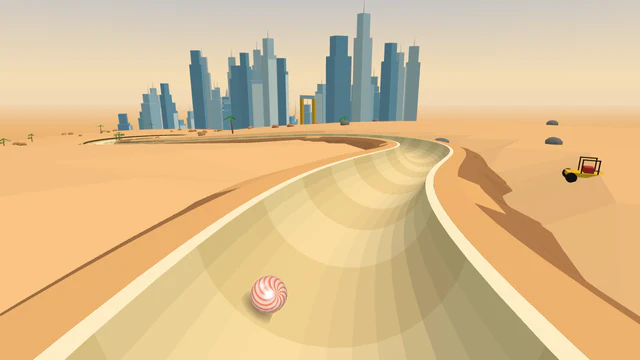
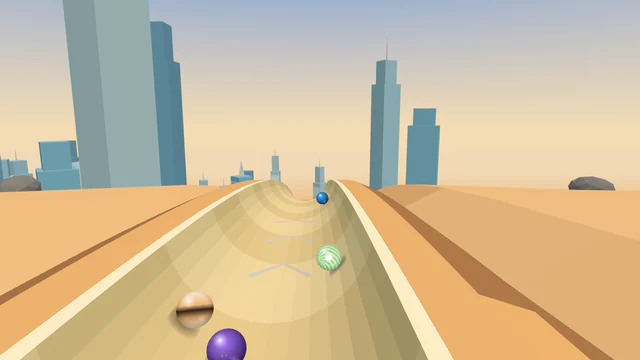
Dubai Twister: its own layout and opening; its records start again
Until now physically the same track as Park City Run. A sand-trap start
through the dunes past the camels and rally flags (the field let go in
waves), up a red dune and down its face, a sweep over the dunes, the hairpin
(no falcon swooping: knocked marbles fell too far behind), S-bends through
the skyline, the Twister round the twisting tower (the big feature), the drop
past the Burj Al Arab and along the Palm. Full report 50/50; Wild 39. Data
updates 2027-07-21. Off the known failures.

Claude-Session: https://claude.ai/code/session_011vSSkqNPL9kncfzrwF15wS

diff --git a/src/tracks/dubai-twister.js b/src/tracks/dubai-twister.js
@@ -4,8 +4,8 @@
 // Moses's design ("New Track Designs", 4), built with the track kit. The surface looks
 // like sand in the desert and polished stone in the city, and races as ice throughout.
 const {
-  track, plunge, straight, sBends, sweep, spiral, hairpin, splitter, runIn,
-  pileUp, swipe, parked, slalom, boost, brake,
+  track, opening, plunge, straight, sBends, sweep, spiral, hairpin, runIn,
+  climb, parked, slalom, brake,
 } = require('../trackKit');
 
 module.exports = track({
@@ -19,8 +19,9 @@ module.exports = track({
   variants: ['sunset'],
   signature: 'The Twister',
   tvCameras: [
-    { section: 'The Twister', at: 0.8, side: 'left', distance: 6, height: 12 },
-    { section: 'Oasis splitter', at: 0.8, side: 'right', distance: 6, height: 5 },
+    // (Near the foot of the tower, looking back up the spiral at the field winding down it.)
+    { section: 'The Twister', at: 0.85, side: 'left', distance: 6, height: 12 },
+    { section: 'Skyline S-bends', at: 0.5, side: 'right', distance: 6, height: 6 },
   ],
   billboardFrame: 'led',
   // The gate on the crest of a tall red dune beside a Bedouin tent and resting camels; the
@@ -28,36 +29,46 @@ module.exports = track({
   start: { landmark: 'bedouin-camp', scenery: ['bare'], gate: 'barrier', shots: { countdown: 'front', launch: 'overhead' } },
   finish: { landmark: 'burj-khalifa', scenery: ['skyscrapers'] },
   designChanges: [
-    'Desert rally marker flags down the dune plunge after the kneeling camels, glanced off like slalom gates: with camels alone the strongest marbles win too often and the field reaches the splitter sorted by strength.',
-    'The dune buggy is parked on the sand beside the S-bends, not on the track: a parked object on a bend trapped the slowest marble against it for up to 8 s (the last one home at 89 s), so the recipe now keeps parked objects to straights.',
-    'A 50 m straight, "Run to the falcon", before the hairpin: the recipe needs a braking zone before the one sharp bend; its first 15 m are a drift of sand blown across the road (a braking stretch), which bunches the field so it overtakes enough.',
+    'Its own layout and opening (Moses, 15 Nov 2026: World Tour re-layouts): through the dunes (the sand-trap start, the field let go in waves) past the kneeling camels and rally flags, up a red dune and down its face, a sweep over the dunes, the hairpin, S-bends through the skyline, the Twister (the big feature: the longest, smoothest spiral of all the tracks, round a twisting skyscraper), the drop past the Burj Al Arab and the Palm.',
+    'The dune buggy is parked on the sand beside the sweep, not on the track: a parked object on a bend traps marbles, so the recipe keeps parked objects to straights.',
+    'No falcon swooping at the hairpin since 15 Nov 2026: knocked marbles fell far behind (the gap from first to last went over the report\'s limit).',
+    'A straight, "Run to the falcon", before the hairpin: the recipe needs a braking zone before the one sharp bend; its first metres are a drift of sand blown across the road.',
   ],
+  // (The sand-trap start: down the dune through deep sand, past the kneeling camels and the rally flags; let go in
+  // jittered waves, a new order every race.)
+  opening: opening('sand-trap', {
+    costumes: { block: 'camel', slalom: 'rally-flag' },
+    names: { plunge: 'Through the dunes' },
+    waves: { groups: 5, gap: 0.12, jitter: 0.1 },
+  }),
   sections: [
+    { name: 'Up the red dune', shape: climb(8, { grade: -0.03, after: 0.3 }), scenery: ['bare'] },
+    { name: 'Down the dune face', shape: plunge(45, { grade: 0.4, from: 0.3 }), scenery: ['bare'], billboards: 1 },
     {
-      name: 'Dune plunge', shape: plunge(80, { grade: 0.6 }),
-      obstacles: [pileUp({ costume: 'camel', at: 0.42 }), slalom({ costume: 'rally-flag', from: 0.55, to: 0.97, count: 6, loss: 0.3 })], scenery: ['bare'],
-    },
-    {
-      name: 'Dune S-bends', shape: sBends({ first: 'left', radius: 75, degrees: 80, grade: 0.13 }),
-      landmarks: [{ name: 'dune-buggy', at: 0.5, side: 'left', distance: 6 }], scenery: ['bare'], billboards: 1,
-    },
-    {
-      name: 'Oasis splitter', shape: splitter({ side: 'left', balance: { tipOffset: -0.8, left: { drag: 1.32, scrub: 1.32 }, right: { drag: 0.42, scrub: 0.72 } } }),
-      around: 'oasis',
-    },
-    {
-      name: 'Skyline sweep', shape: sweep({ side: 'right', radius: 80, degrees: 160, grade: 0.07 }), surface: 'stone', features: [boost({ at: 0.08 })], billboards: 2,
-      landmarks: [{ name: 'museum-of-the-future', at: 0.3, side: 'left', distance: 20 }, { name: 'dubai-frame', at: 0.75, side: 'left', distance: 24 }], scenery: ['skyscrapers'],
+      name: 'Dune sweep', shape: sweep({ side: 'right', radius: 80, degrees: 130, grade: 0.12 }),
+      landmarks: [{ name: 'dune-buggy', at: 0.5, side: 'left', distance: 6 }], scenery: ['bare'],
     },
     // (Not in the design: the recipe's braking zone needs a straight before the one sharp bend.)
-    { name: 'Run to the falcon', shape: straight(50, { grade: 0.13 }), surface: 'stone', features: [brake({ at: 0.25, length: 15 })], billboards: 1, scenery: ['skyscrapers'] },
-    { name: 'Falcon hairpin', shape: hairpin({ side: 'left' }), surface: 'stone', obstacles: [swipe({ costume: 'falcon', side: 'high' })] },
-    // The longest, smoothest spiral of all the tracks, round a twisting skyscraper.
-    { name: 'The Twister', shape: spiral({ side: 'right', radius: 50, turns: 1.2, grade: 0.18 }), surface: 'stone', around: 'twisted-tower', scenery: ['skyscrapers'] },
     {
-      name: 'Burj Al Arab plunge', shape: straight(90, { grade: 0.2 }), surface: 'stone',
-      obstacles: [parked({ costume: 'sports-car', at: 0.4, side: 'right', length: 9 })],
-      landmarks: [{ name: 'burj-al-arab', at: 0.6, side: 'left', distance: 40 }],
+      name: 'Run to the falcon', shape: straight(60, { grade: 0.13 }), surface: 'stone', billboards: 1, scenery: ['skyscrapers'],
+      obstacles: [slalom({ costume: 'rally-flag', from: 0.2, to: 0.6, count: 3, loss: 0.3 })],
+    },
+    { name: 'Falcon hairpin', shape: hairpin({ side: 'right' }), surface: 'stone' },
+    {
+      name: 'Skyline S-bends', shape: sBends({ first: 'right', radius: 70, degrees: 80, grade: 0.14 }), surface: 'stone', billboards: 2,
+      landmarks: [{ name: 'museum-of-the-future', at: 0.3, side: 'left', distance: 20 }, { name: 'dubai-frame', at: 0.75, side: 'right', distance: 24 }], scenery: ['skyscrapers'],
+    },
+    { name: 'To the tower', shape: straight(35, { grade: 0.12 }), surface: 'stone', scenery: ['skyscrapers'] },
+    // The longest, smoothest spiral of all the tracks, round a twisting skyscraper: the track's big feature.
+    { name: 'The Twister', shape: spiral({ side: 'left', radius: 50, turns: 1.2, grade: 0.16 }), surface: 'stone', around: 'twisted-tower', scenery: ['skyscrapers'] },
+    {
+      name: 'Burj Al Arab plunge', shape: plunge(50, { grade: 0.3, from: 0.16 }), surface: 'stone',
+      landmarks: [{ name: 'burj-al-arab', at: 0.6, side: 'right', distance: 40 }],
+    },
+    {
+      name: 'Along the Palm', shape: straight(80, { grade: 0.13 }), surface: 'stone', billboards: 1,
+      features: [brake({ at: 0.05, length: 12, drag: 0.02 })],
+      obstacles: [parked({ costume: 'sports-car', at: 0.3, side: 'right', length: 9 }), slalom({ costume: 'rally-flag', from: 0.55, to: 0.9, count: 3, loss: 0.35 })],
     },
     { name: 'Finish', shape: runIn(), surface: 'stone', landmarks: [{ name: 'palm-boardwalk', at: 0.5, side: 'left', distance: 8 }] },
   ],

diff --git a/test/trackKit.test.js b/test/trackKit.test.js
@@ -56,7 +56,7 @@ test('every kit track opens with Bobsleigh Run\'s starting ramp, gate, channel a
     // (The staggered drop and the varied starts let the field go in waves: their funnel has that one setting more.
     // Any other opening only where its track asks for them, listed here: Nevada Drag Strip's crest start.)
     const { waves, ...rest } = funnel;
-    if (waves) assert.ok(['staggered-drop', 'clean-drop', 'peg-drop', 'pipe-drop', 'rolling-start', 'chicane-start', 'rumble-start'].includes(t.physics.kit.opening) || ['nevada-drag-strip', 'hudson-highlands-run', 'iguazu-devils-throat', 'chao-phraya-dawn-spiral', 'blyde-potholes-spiral', 'kings-canyon-lost-city', 'huashan-plank-walk', 'etna-valle-del-bove', 'tianmen-heavens-gate', 'sunken-ruins', 'are-run', 'greenland-expedition', 'crystal-grotto', 'moon-base'].includes(t.slug), `${t.slug}: waves at the gate`);
+    if (waves) assert.ok(['staggered-drop', 'clean-drop', 'peg-drop', 'pipe-drop', 'rolling-start', 'chicane-start', 'rumble-start'].includes(t.physics.kit.opening) || ['nevada-drag-strip', 'hudson-highlands-run', 'iguazu-devils-throat', 'chao-phraya-dawn-spiral', 'blyde-potholes-spiral', 'kings-canyon-lost-city', 'huashan-plank-walk', 'etna-valle-del-bove', 'tianmen-heavens-gate', 'sunken-ruins', 'are-run', 'greenland-expedition', 'dubai-twister', 'crystal-grotto', 'moon-base'].includes(t.slug), `${t.slug}: waves at the gate`);
     if (!['funnel-drop', 'staggered-drop'].includes(t.physics.kit.opening)) assert.deepEqual(rest, tmFunnel);
     assert.deepEqual(t.physics.gate, bob.physics.gate);
     assert.equal(t.physics.collisions, true);

diff --git a/test/samenessAllTracks.test.js b/test/samenessAllTracks.test.js
@@ -38,7 +38,6 @@ const KNOWN = {
   'baqueira-beret-run': ['opening', 'opening-kind', 'layout'],
 
   'paris-eiffel-tower-run': ['opening', 'opening-kind', 'layout'],
-  'dubai-twister': ['opening', 'opening-kind', 'layout'],
   'amazon-water-run': ['layout'],
   'rio-jungle-rumble': ['opening', 'opening-kind', 'layout'],
   'china-wall-twister': ['opening', 'opening-kind', 'layout'],

diff --git a/docs/06-decisions.md b/docs/06-decisions.md
@@ -4,7 +4,7 @@
 
 | Date | Decision | Why |
 |---|---|---|
-| 2026-11-15 | **World Tour re-layouts** (Moses, 21:20: every World Tour pack track still on the sameness test's known failures gets its own layout and opening, with a signature feature from the real place, as the Grand Prix re-layouts; then seven new World Tour tracks to fill the pack to 20). Each keeps its name, slug and look; a `--relayout` data update starts its records again (`tracks.records_since`), and a `<slug>-to-world-tour` update sets its new wildness (the pack script now takes a kit track with no series marker as World Tour, as the server does). Done: **Åre Run** (Wild 43, was Easy 29: a rumble start down the summit moguls, the hairpin, a sweep under the gondola, down the World Championship slope as the big feature, the funicular spiral; `2027-07-18-…`), **Greenland Expedition** (Wild 44: a snowdrift start, the sand-trap opening, past the sled dogs, the ice cave as the big feature, a long steep drop inside the glacier; `2027-07-19-…`), **Park City Run** (Wild 37: a rolling start from the lift station, down the old silver mine's shaft as the big feature; `2027-07-20-…`). | The old World Tour tracks were built from one design and raced alike (several pairs identical, nine with the same opening). |
+| 2026-11-15 | **World Tour re-layouts** (Moses, 21:20: every World Tour pack track still on the sameness test's known failures gets its own layout and opening, with a signature feature from the real place, as the Grand Prix re-layouts; then seven new World Tour tracks to fill the pack to 20). Each keeps its name, slug and look; a `--relayout` data update starts its records again (`tracks.records_since`), and a `<slug>-to-world-tour` update sets its new wildness (the pack script now takes a kit track with no series marker as World Tour, as the server does). Done: **Åre Run** (Wild 43, was Easy 29: a rumble start down the summit moguls, the hairpin, a sweep under the gondola, down the World Championship slope as the big feature, the funicular spiral; `2027-07-18-…`), **Greenland Expedition** (Wild 44: a snowdrift start, the sand-trap opening, past the sled dogs, the ice cave as the big feature, a long steep drop inside the glacier; `2027-07-19-…`), **Park City Run** (Wild 37: a rolling start from the lift station, down the old silver mine's shaft as the big feature; `2027-07-20-…`), **Dubai Twister** (Wild 39: a sand-trap start through the dunes, up a red dune and down its face, the Twister spiral round the twisting tower as the big feature; the falcon no longer swoops at the hairpin, as knocked marbles fell too far behind; `2027-07-21-…`). | The old World Tour tracks were built from one design and raced alike (several pairs identical, nine with the same opening). |
 | 2026-11-15 | **Seven more Blocks 1 tracks: the Blocks 1 pack filled to 20** (Moses, 13:38: the game-world look, our own voxel worlds with retro-game touches, never another game's names, creatures, textures or falling pieces; same rules as the Canyons and Peaks; 2 Easy, 3 Wild, 2 Extreme). Built, each pushed switched off in the Blocks 1 pack, not free: **Mushroom Grove** (Easy 24: a drop off a giant mushroom's cap), **Sunken Ruins** (Easy 17: a banked turn round a sunken dome), **Clockwork Works** (Wild 39: a splitter round a giant gear), **Crystal Grotto** (Wild 44: a spiral round a crystal spire), **Jungle Ruins** (Wild 45: a waterfall drop through falling water), **Moon Base** (Extreme 60: a 66 m drop over a crater's rim), **Neon Grid** (Extreme 57: a loop over the glowing grid, 69 overtakes); data updates `2027-07-11-…` to `2027-07-17-…`; seven new worlds, `kitLandmarksBlockWorlds.js` and three Blocks 1 start types (`portal-gate`, `block-pyramid`, `gear-tower`). On phones a Block Series cube pillar is now at most 8 cubes (each taller), as Crystal Grotto's tall pillars went over the triangle budget; looks only. Status: project doc `claude/blocks-1-seven-more-status.md`. Waiting for Moses's deploy (with the Canyons and Peaks), then his look at each preview before switching on. | With them the Blocks 1 pack has 20 besides the free Spawn Point and can go on sale. |
 | 2026-11-15 | **Six more Peaks tracks: the Peaks pack filled to 20** (Moses, 09:45: same rules as the six Canyons, and 65+ overtakes on a loop track; 2 Easy, 2 Wild, 2 Extreme; six famous mountains not yet in the series, each with two signature features, unlike the World Tour's alpine resorts). Built, each pushed switched off in the Peaks pack, not free: **Half Dome Granite Slabs** (Easy 31: a drop down the granite slabs below the face), **Huayna Picchu Terraces** (Extreme 48: a splitter round a terraced hill), **Huashan Plank Walk** (Easy 20: a dramatic banked turn round the plank walk's cliff), **Eiger North Face** (Wild 43: a banked spiral round a window pillar), **Etna Valle del Bove** (Extreme 50: a drop into the Valle del Bove), **Tianmen Heaven's Gate** (Wild 41: a loop under the great arch, 69 overtakes); data updates `2027-07-05-…` to `2027-07-10-…`; six palettes and `kitLandmarksPeak2.js`; the pack script knows Peaks. Huayna came out Extreme and Huashan Easy, Etna Extreme and Tianmen Wild (planned otherwise); the mix stays 2/2/2. Status: project doc `claude/peaks-six-more-status.md`. Waiting for Moses's deploy (with the Canyons), then his look at each preview before switching on. | With them the Peaks pack has 20 besides the free Everest Icefall Run and can go on sale. |
 | 2026-11-15 | **A coaster track can have a loop** (Kings Canyon Lost City, the first): over the loop's span the coaster's rails, spine, ties and towers stop (3 m either side), as the loop draws its own track and steel along its own path; before, they ran along the ground under it, 64 m with no rim under the rails, and blocked the follow camera. The rails check (`railGaps`) now finds each rail line's first point along the whole track (by height too), so lines that start after a loop are checked where they are. Looks only: race results unchanged. | A loop in a canyon is the Canyons series' loop; the coaster kit had never met one. |

diff --git a/docs/README.md b/docs/README.md
@@ -8,7 +8,7 @@
 
 **Where it stands:**
 - **Website:** live at marblespins.com (Vercel builds every push to `Main`; production is at `548aeb8`, 15 Nov). Soft start (social media, a daily set of videos, 10–20 invited test pilots) since the week of 26 Oct. **Official launch 1 Dec 2026**, with the Holiday Season, the season pass and the apps. GA4 on since 31 Oct (after cookie consent); the Meta Pixel off.
-- **Tracks: 152 live in ten series** (World Tour, Grand Prix, Coasters, Canyons, Blocks, Track and Field, Rivers, Peaks, Pinball, Arcade), since the 9 motorsport Grand Prix tracks were switched on on 13 Nov; 191 in the database. **Switched off, waiting for Moses:** five more Rivers tracks (on the server since 13 Nov: Yukon Five Finger Run, Arno Old Bridge Run, Chao Phraya Dawn Spiral, Hudson Highlands Run, Iguazú Devil's Throat) and six more Canyons tracks (on Main, **waiting for the server deploy**: Bryce Hoodoo Run, Blyde Potholes Spiral, Taroko Marble Gorge, Samaria Iron Gates, Kings Canyon Lost City, the first coaster track with a loop, and Sumidero Christmas Falls; data updates `2027-06-29-…` to `2027-07-04-…`) and six more Peaks tracks (on Main, **waiting for the same deploy**: Half Dome Granite Slabs, Huayna Picchu Terraces, Huashan Plank Walk, Eiger North Face, Etna Valle del Bove, Tianmen Heaven's Gate; data updates `2027-07-05-…` to `2027-07-10-…`) and seven more Blocks 1 tracks (on Main, **waiting for the same deploy**: Mushroom Grove, Sunken Ruins, Clockwork Works, Crystal Grotto, Jungle Ruins, Moon Base, Neon Grid; data updates `2027-07-11-…` to `2027-07-17-…`); World Tour re-layouts (on Main, **waiting for the same deploy**; their records start again): Åre Run, Greenland Expedition, Park City Run (`2027-07-18-…` to `2027-07-20-…`). Moses deploys Canyons, Peaks, Blocks 1 and the World Tour work together. The 31 holiday tracks are switched on but hidden and closed until 1 Dec 00:00 Swedish time (183 live then).
+- **Tracks: 152 live in ten series** (World Tour, Grand Prix, Coasters, Canyons, Blocks, Track and Field, Rivers, Peaks, Pinball, Arcade), since the 9 motorsport Grand Prix tracks were switched on on 13 Nov; 191 in the database. **Switched off, waiting for Moses:** five more Rivers tracks (on the server since 13 Nov: Yukon Five Finger Run, Arno Old Bridge Run, Chao Phraya Dawn Spiral, Hudson Highlands Run, Iguazú Devil's Throat) and six more Canyons tracks (on Main, **waiting for the server deploy**: Bryce Hoodoo Run, Blyde Potholes Spiral, Taroko Marble Gorge, Samaria Iron Gates, Kings Canyon Lost City, the first coaster track with a loop, and Sumidero Christmas Falls; data updates `2027-06-29-…` to `2027-07-04-…`) and six more Peaks tracks (on Main, **waiting for the same deploy**: Half Dome Granite Slabs, Huayna Picchu Terraces, Huashan Plank Walk, Eiger North Face, Etna Valle del Bove, Tianmen Heaven's Gate; data updates `2027-07-05-…` to `2027-07-10-…`) and seven more Blocks 1 tracks (on Main, **waiting for the same deploy**: Mushroom Grove, Sunken Ruins, Clockwork Works, Crystal Grotto, Jungle Ruins, Moon Base, Neon Grid; data updates `2027-07-11-…` to `2027-07-17-…`); World Tour re-layouts (on Main, **waiting for the same deploy**; their records start again): Åre Run, Greenland Expedition, Park City Run, Dubai Twister (`2027-07-18-…` to `2027-07-21-…`). Moses deploys Canyons, Peaks, Blocks 1 and the World Tour work together. The 31 holiday tracks are switched on but hidden and closed until 1 Dec 00:00 Swedish time (183 live then).
 - **Server:** last deployed **13 Nov 2026, ~23:00** (code fingerprint `7abad7e4c43d`, Main `7a3342d`; 57 tables, 527 columns): the Stripe webhook's refusals logged and its readiness on `/health`. The week's other deploys (12 Nov `b5cc113debdb` and `bc1bd7ff096f`; 13 Nov ~14:20 `8d7a15a7631e`, ~18:30 `6be622039502`, ~21:45 `c25a2aa05c5b`) brought wildness and track packs, pack sales, the free set of 15, the motorsport Grand Prix tracks, where players come from and the five Rivers. Main is at fingerprint `5636207a9263`: the next deploy brings only the six Canyons tracks.
 - **Wildness and track packs:** every live track is Easy / Wild / Extreme (from 1,000 report races; 68 / 61 / 23 of the 152), shown as a badge and a picker filter. 11 packs (one per series; Pinball and Arcade separate; Blocks 1 and 2), **$7.99, or 1,990 coins + $5.99**, on the website (Stripe, test mode), Google Play and the App Store. **Free set: 15 tracks**, one or two per series. **Complete packs** (20 live besides the free ones): Blocks 2 and Grand Prix; Rivers and Canyons have 20 once their new tracks are on. **Locking and selling are off** (`TRACK_PACKS`); only complete packs lock when it is on. The website keeps saying every track is free until `PACKS_LIVE` (`client/src/shared/packWording.js`). First end-to-end test purchase (Grand Prix pack, Stripe test mode) worked on 13 Nov. Still to do: the store products, the pack terms of sale (draft at `/preview/legal-packs`), Moses's go.
 - **Apps:** iPhone and Android (Capacitor). **Android 1.0.0 (5) in Play internal testing, tested by Moses on 13 Nov:** hit and bump sounds work, the ceremony song stops (the slow-phone and sound fixes of 11–12 Nov confirmed). `client/app-version.json` and the iPhone project at 1.0.0 (5); the next build is 6 (`npm run app:version -- build`). **Store submission planned for 16–20 Nov.**
